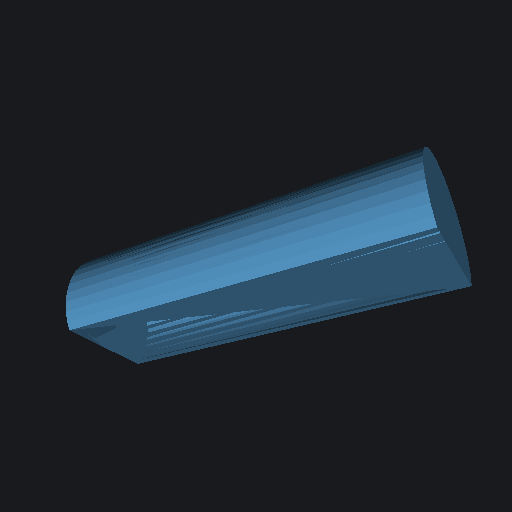
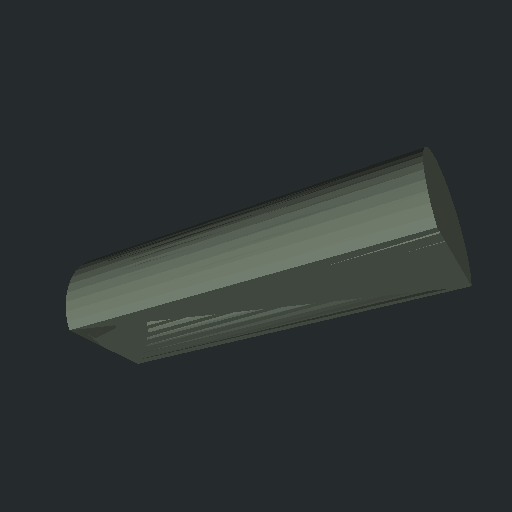
Unify preview and editor colors with a stable muted matte palette

Changed region(s): [[0.125, 0.2812, 0.9375, 0.7188]]

diff --git a/web/components/viewer/PartMeshes.tsx b/web/components/viewer/PartMeshes.tsx
@@ -60,17 +60,17 @@ function PartMesh({
       // Own the display material: glTF defaults to metalness=1, and baked
       // vertex colors otherwise multiply (darken) the part palette.
       object.material = new MeshStandardMaterial({
-        color: partColor(index), metalness: 0, roughness: 0.85,
+        color: partColor(index, part.part_id), metalness: 0, roughness: 1,
       });
     });
     return clone;
-  }, [gltf, index]);
+  }, [gltf, index, part.part_id]);
   useEffect(() => () => {
     scene.traverse((object) => {
       if (object instanceof Mesh) (object.material as MeshStandardMaterial).dispose();
     });
   }, [scene]);
-  const baseColor = useMemo(() => new Color(partColor(index)), [index]);
+  const baseColor = useMemo(() => new Color(partColor(index, part.part_id)), [index, part.part_id]);
 
   // The first part mesh to draw marks the viewer's first-mesh timestamp.
   useEffect(() => {
@@ -88,9 +88,9 @@ function PartMesh({
           if (mat.emissive) {
             mat.emissive.copy(
               selected
-                ? new Color("#ffffff")
+                ? new Color("#302a20")
                 : hovered
-                  ? new Color("#334155")
+                  ? new Color("#18160f")
                   : new Color("#000000"),
             );
           }

diff --git a/web/lib/palette.ts b/web/lib/palette.ts
@@ -1,16 +1,16 @@
-// Distinct per-part colours, shared by the parts panel and the 3D viewer.
-// Kept free of three.js imports so the workspace shell can use it without pulling the viewer bundle.
-const PALETTE = [
-  "#60a5fa",
-  "#f472b6",
-  "#34d399",
-  "#fbbf24",
-  "#a78bfa",
-  "#f87171",
-  "#22d3ee",
-  "#a3e635",
-];
+// Shared with scripts/recolor_fixture_previews.py and the fixture generator.
+// Keep this module free of three.js so cards do not load the viewer bundle.
+import palette from "./partPalette.json";
 
-export function partColor(index: number): string {
-  return PALETTE[index % PALETTE.length];
+export function partColor(index: number, partId?: string): string {
+  let slot = index;
+  if (partId) {
+    const numbered = /^p([1-9]\d*)$/.exec(partId);
+    // Original component IDs match their baked preview palette slots. Other
+    // IDs get a stable hash so reorder, hide and isolation cannot recolor them.
+    slot = numbered ? Number(numbered[1]) - 1 : Array.from(partId).reduce(
+      (hash, char) => (Math.imul(hash, 31) + char.charCodeAt(0)) >>> 0, 0,
+    );
+  }
+  return palette[((slot % palette.length) + palette.length) % palette.length];
 }

diff --git a/web/tests/palette.test.ts b/web/tests/palette.test.ts
@@ -1,0 +1,21 @@
+import { describe, expect, it } from "vitest";
+import { partColor } from "../lib/palette";
+import palette from "../lib/partPalette.json";
+
+describe("shared muted component palette", () => {
+  it("matches each original component to its preview palette slot", () => {
+    palette.forEach((color, i) => expect(partColor(0, `p${i + 1}`)).toBe(color));
+  });
+  it("keeps a component's color when isolated or reordered after combine", () => {
+    for (const id of ["p2", "p4", "merged_abc123", "merged_p2_p1"]) {
+      expect(partColor(0, id)).toBe(partColor(5, id));
+    }
+  });
+  it("uses muted colors instead of bright or neon defaults", () => {
+    for (const color of palette) {
+      const rgb = color.slice(1).match(/../g)!.map(c => parseInt(c, 16));
+      expect(Math.max(...rgb)).toBeLessThan(190);
+      expect(Math.max(...rgb) - Math.min(...rgb)).toBeLessThan(80);
+    }
+  });
+});

diff --git a/web/components/PartsPanel.tsx b/web/components/PartsPanel.tsx
@@ -131,7 +131,7 @@ function PartCard({
       >
         <span
           className="mt-1 h-3 w-3 shrink-0 rounded-sm"
-          style={{ backgroundColor: partColor(index) }}
+          style={{ backgroundColor: partColor(index, part.part_id) }}
         />
         <span className="h-12 w-12 shrink-0 overflow-hidden rounded bg-wash">
           {/* eslint-disable-next-line @next/next/no-img-element */}

diff --git a/web/components/viewer/WholeMesh.tsx b/web/components/viewer/WholeMesh.tsx
@@ -24,7 +24,7 @@ export function WholeMesh({ url, visible }: { url: string; visible: boolean }) {
         const material = source.clone();
         if (material instanceof MeshStandardMaterial) {
           material.metalness = 0;
-          material.roughness = 0.85;
+          material.roughness = 1;
         }
         return material;
       });

diff --git a/scripts/recolor_fixture_previews.py b/scripts/recolor_fixture_previews.py
@@ -1,0 +1,50 @@
+"""Re-render example thumbnails with the editor palette, without changing geometry.
+
+Run from the repository root with backend/.venv/bin/python. Only PNG previews
+are written; no GLB, scan metadata, measurements or splats are modified.
+"""
+from __future__ import annotations
+
+import importlib.util
+import json
+from pathlib import Path
+
+import numpy as np
+import trimesh
+
+ROOT = Path(__file__).resolve().parents[1]
+
+
+def build_previews() -> dict[Path, bytes]:
+    # Load the standalone CPU renderer without importing optional model adapters.
+    spec = importlib.util.spec_from_file_location(
+        "preview_renderer", ROOT / "backend/screwit/perception/render.py",
+    )
+    renderer = importlib.util.module_from_spec(spec)
+    spec.loader.exec_module(renderer)
+    renderer.BG_COLOR = (37, 42, 45)  # Same charcoal background as the editor.
+    palette = json.loads((ROOT / "web/lib/partPalette.json").read_text())
+    outputs = {}
+    for scan in json.loads((ROOT / "fixtures/demo_scans.json").read_text()):
+        directory = ROOT / "fixtures/scans" / scan["scan_id"]
+        meshes = []
+        for i, part in enumerate(json.loads((directory / "parts.json").read_text())):
+            slot = int(part["part_id"][1:]) - 1 if part["part_id"][1:].isdigit() else i
+            rgba = (*bytes.fromhex(palette[slot % len(palette)][1:]), 255)
+            mesh = trimesh.load(ROOT / "fixtures" / part["mesh_uri"], force="scene").to_geometry()
+            mesh.visual.vertex_colors = np.tile(np.array(rgba, dtype=np.uint8), (len(mesh.vertices), 1))
+            meshes.append(mesh)
+            outputs[ROOT / "fixtures" / part["thumbnail_uri"]] = renderer.render_mesh_png(
+                mesh.vertices, mesh.faces, mesh.visual.vertex_colors,
+            )
+        whole = trimesh.util.concatenate(meshes)
+        outputs[ROOT / "fixtures" / scan["thumbnail_uri"]] = renderer.render_mesh_png(
+            whole.vertices, whole.faces, whole.visual.vertex_colors,
+        )
+    return outputs
+
+
+if __name__ == "__main__":
+    for path, content in build_previews().items():
+        path.write_bytes(content)
+        print(f"Updated {path.relative_to(ROOT)}")

diff --git a/scripts/make_fixture_assets.py b/scripts/make_fixture_assets.py
@@ -19,6 +19,7 @@ Everything is committed (each output is well under 10 MB).
 
 from __future__ import annotations
 
+import json
 import math
 from pathlib import Path
 
@@ -31,10 +32,10 @@ from screwit.contracts import Cameras
 ROOT = Path(__file__).resolve().parents[1]
 SCANS = ROOT / "fixtures" / "scans"
 
-# RGBA vertex colours per part, so the mesh view is distinguishable.
+# One palette for the web viewer, gallery thumbnails and generated fixtures.
 COLORS = [
-    (200, 90, 70, 255), (90, 160, 210, 255), (210, 190, 90, 255),
-    (120, 200, 130, 255), (180, 120, 200, 255), (150, 150, 150, 255),
+    (*tuple(bytes.fromhex(color.removeprefix("#"))), 255)
+    for color in json.loads((ROOT / "web/lib/partPalette.json").read_text())
 ]
 
 
